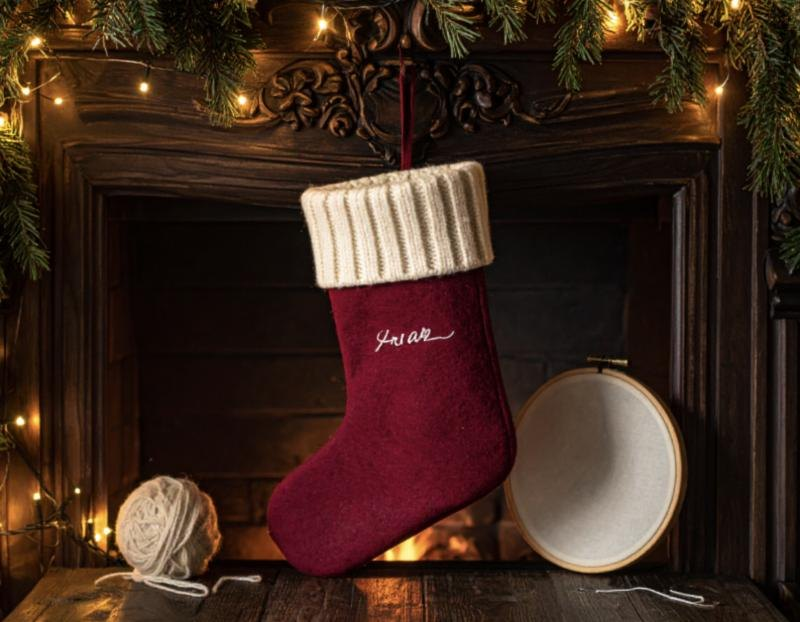
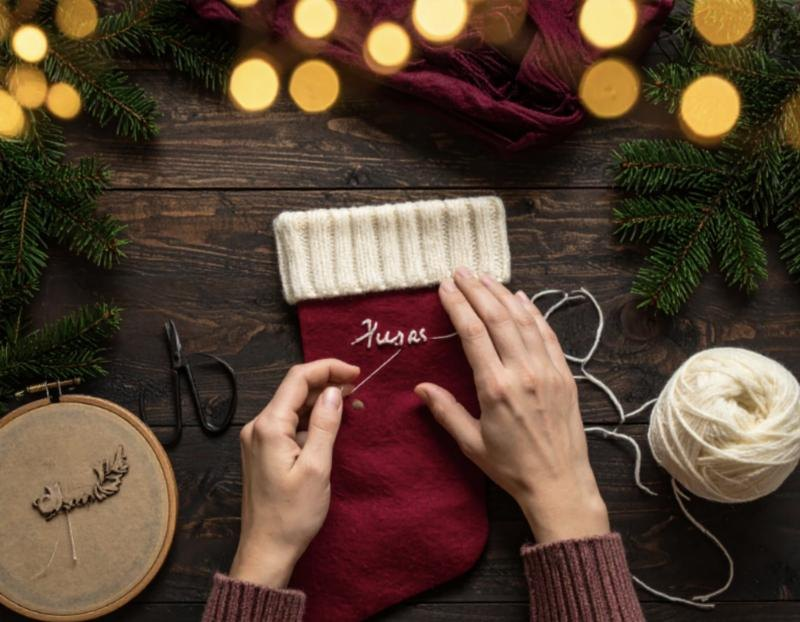
Accueil : image personnalisation avec mains qui brodent un prénom
Claude-Session: https://claude.ai/code/session_01QB56uT95M3EbURY2XDpeat

diff --git a/src/style.css b/src/style.css
@@ -1155,6 +1155,6 @@ body.is-home .topbar { grid-template-areas: "home nav meta" !important; grid-tem
 .impl-grid > div:hover .impl-img img { transform: scale(1.04); }
 .impl-grid > div:nth-child(1) .impl-img img { object-position: 40% 50%; }
 .impl-grid > div:nth-child(2) .impl-img img { object-position: 62% 50%; }
-.impl-grid > div:nth-child(3) .impl-img img { object-position: 50% 50%; }
+.impl-grid > div:nth-child(3) .impl-img img { object-position: 52% 50%; }
 .impl-grid > div:nth-child(4) .impl-img img { object-position: 72% 50%; }
 .impl-img { box-shadow: 0 30px 60px -30px rgba(0,0,0,.7); outline: 1px solid rgba(201,164,92,.25); outline-offset: -1px; }
